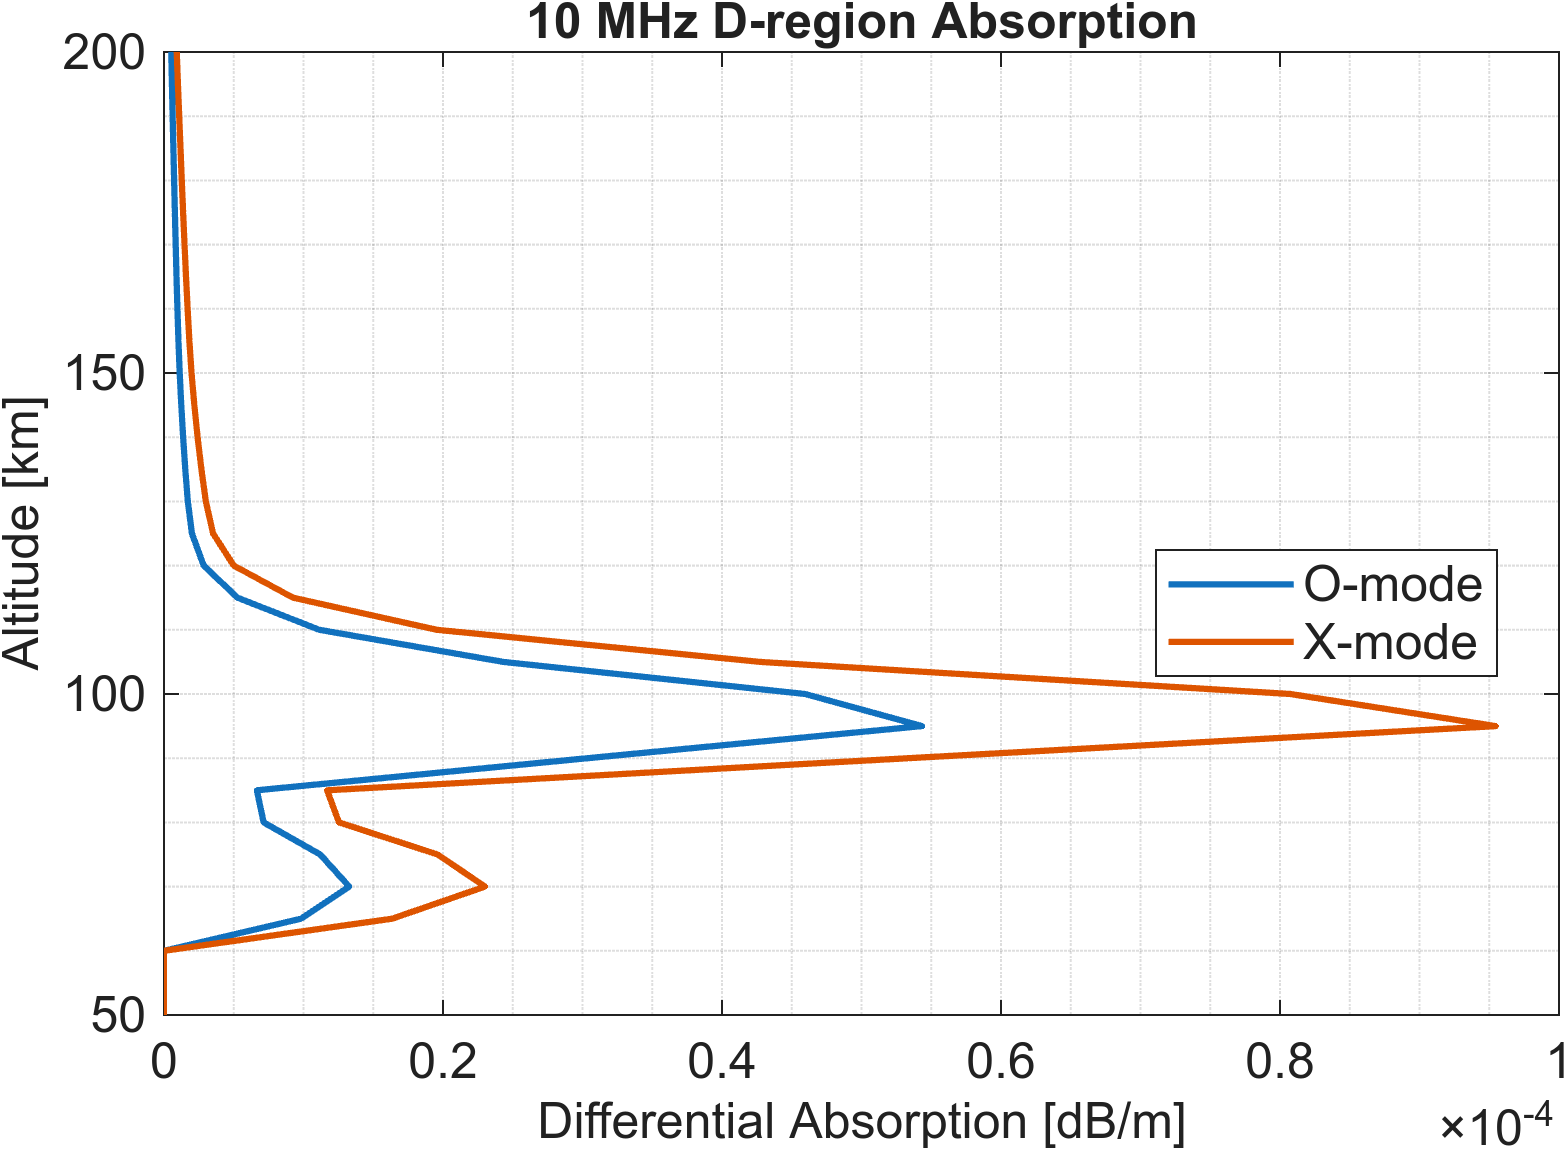
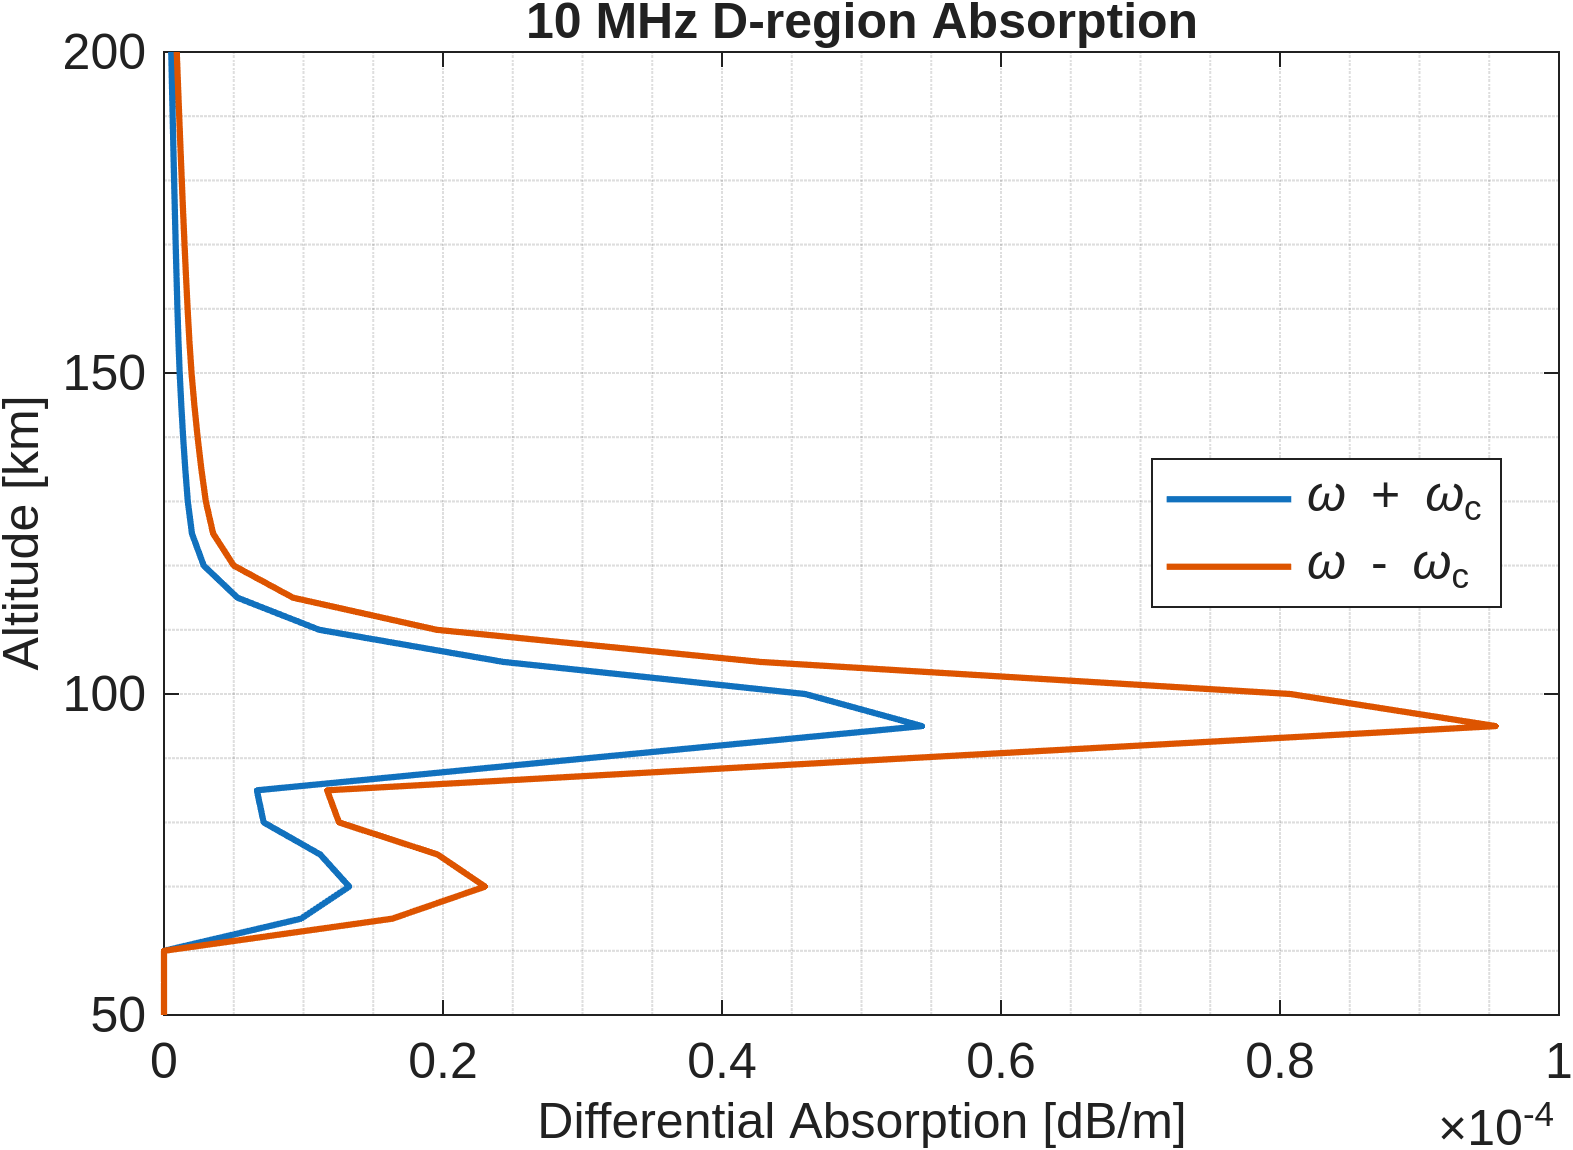
aero env hw3 p8: solve both +/- cases without mode names

diff --git a/AeroEnvironment/HW/HW3/HW3_Problem8.m b/AeroEnvironment/HW/HW3/HW3_Problem8.m
@@ -10,7 +10,7 @@ data = readmatrix('iri_output.txt', 'FileType', 'text', 'NumHeaderLines', 30);
 data(data == -1) = NaN; % IRI uses -1 for missing values
 
 alt = data(:,1); % km
-Ne  = data(:,2) * 1e6; % cm^-3 -> m^-3
+Ne  = data(:,2) * 1e6; % Convert cm^-3 to m^-3
 Te  = data(:,6); % K
 Ne(isnan(Ne)) = 0; % no electrons where IRI has no data
 
@@ -33,27 +33,27 @@ w   = 2*pi*f;
 w_c = qe * B0 / me;
 fprintf('f_H = %.2f MHz\n', w_c/(2*pi*1e6));
 
-% Differential absorption [dB/m] for O-mode (w + w_c) and X-mode (w - w_c)
-dAdl_O = 4.6e-5 * Ne .* nu ./ (nu.^2 + (w + w_c)^2);
-dAdl_X = 4.6e-5 * Ne .* nu ./ (nu.^2 + (w - w_c)^2);
+% Differential absorption [dB/m] for both +/- solutions (w + w_c) and (w - w_c)
+dAdl_plus = 4.6e-5 * Ne .* nu ./ (nu.^2 + (w + w_c)^2);
+dAdl_minus = 4.6e-5 * Ne .* nu ./ (nu.^2 + (w - w_c)^2);
 
 % Total attenuation along vertical path [dB]
 z_m = alt * 1e3; % m
-A_O = trapz(z_m, dAdl_O);
-A_X = trapz(z_m, dAdl_X);
-fprintf('O-mode attenuation = %.2f dB\n', A_O);
-fprintf('X-mode attenuation = %.2f dB\n', A_X);
+A_plus  = trapz(z_m, dAdl_plus);
+A_minus = trapz(z_m, dAdl_minus);
+fprintf('(w + w_c) attenuation = %.2f dB\n', A_plus);
+fprintf('(w - w_c) attenuation = %.2f dB\n', A_minus);
 
 % Plot differential absorption profile
 figure;
-plot(dAdl_O, alt, 'LineWidth', 1.5); hold on
-plot(dAdl_X, alt, 'LineWidth', 1.5);
+plot(dAdl_plus, alt, 'LineWidth', 1.5); hold on
+plot(dAdl_minus, alt, 'LineWidth', 1.5);
 grid minor
 ylim([50 200])
 xlabel('Differential Absorption [dB/m]')
 ylabel('Altitude [km]')
 title('10 MHz D-region Absorption')
-legend('O-mode', 'X-mode', 'Location', 'best')
+legend('\omega + \omega_c', '\omega - \omega_c', 'Location', 'best')
 set(gcf, 'Units', 'inches', 'Position', [0 0 6 4]);
 set(findall(gcf, '-property', 'FontSize'), 'FontSize', 12);
 exportgraphics(gcf, fullfile('figures', 'HW3_P8_absorption.png'), 'Resolution', 300)

diff --git a/AeroEnvironment/HW/HW3/HW3_Solve.tex b/AeroEnvironment/HW/HW3/HW3_Solve.tex
@@ -40,7 +40,7 @@
 
 % ---------- Title ----------
 \begin{center}
-    {\Large \textbf{Homework 2}}\\[0.5em]
+    {\Large \textbf{Homework 3}}\\[0.5em]
     {\large ASEN 5335 Aerospace Environment}\\[0.5em]
     Justin Le\\ 
     \today
@@ -226,7 +226,31 @@ ionosphere, we can improve our pseudoranging and have a better position estimate
 
 \newpage
 \section*{Problem 8: D Region Signal Attenuation}
+\hspace*{2em}The electron-neutral collision frequency is found from the MSIS neutral density
+($n_n = n_{N_2}+n_{O_2}+n_{O}$, cm$^{-3}$) and the IRI electron temperature,
+\begin{gather*}
+\nu_{en} = 5.4\times10^{-10}\, n_n T_e^{1/2}~\mathrm{s^{-1}}
+\end{gather*}
+\hspace*{2em}The electron gyrofrequency for $|B_0| = 50{,}000$ nT is,
+\begin{gather*}
+\omega_H = \frac{q_e B_0}{m_e} = 8.79\times10^{6}~\mathrm{rad/s} \quad (f_H = 1.40~\mathrm{MHz})
+\end{gather*}
+\hspace*{2em}The differential absorption (with $n_e$ in m$^{-3}$) for both the $+$ and $-$ solutions is,
+\begin{gather*}
+\frac{dA}{dl} = 4.6\times10^{-5}\,\frac{n_e \nu}{\nu^2 + (\omega \pm \omega_H)^2}~\mathrm{dB/m}
+\end{gather*}
+\hspace*{2em}Integrating vertically through the IRI profile with $f = 10$ MHz,
+\begin{gather*}
+\boxed{A_{+} \approx 1.2~\mathrm{dB}} \qquad \boxed{A_{-} \approx 2.1~\mathrm{dB}}
+\end{gather*}
+\hspace*{2em}Most of the absorption occurs between 65 and 120 km, peaking near 95 km where $n_e$
+increases rapidly while $\nu$ is still large. Neglecting $B_0$ gives 1.6 dB.
 
+\begin{figure}[H]
+    \centering
+    \includegraphics[width=0.6\textwidth]{figures/HW3_P8_absorption.png}
+    \caption{10 MHz Differential Absorption}
+\end{figure}
 
 \newpage
 \section*{Problem 9: ICON Mission}
